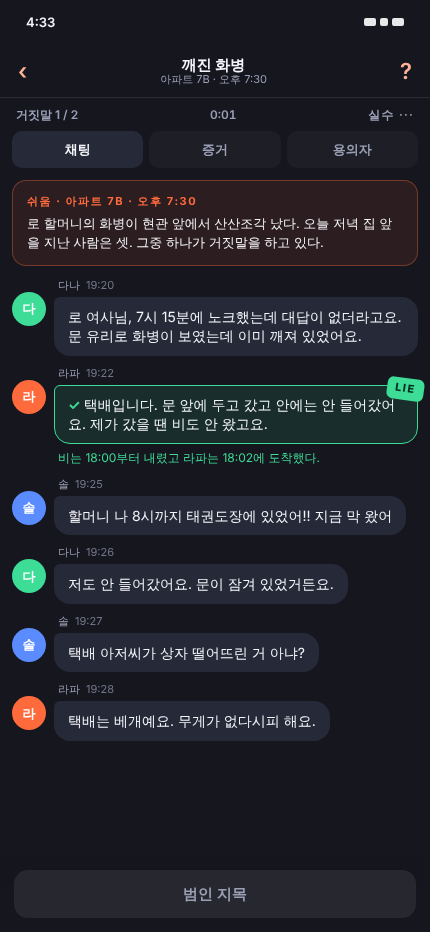
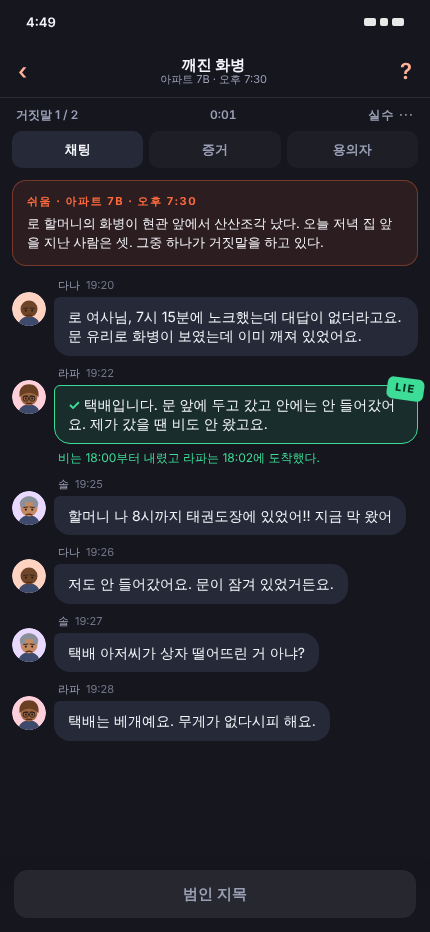
알리바이: 자백 대사 20사건(두 언어), 문서 갱신, 스크린샷 재촬영
Claude-Session: https://claude.ai/code/session_01GtvmLdhHeiEetnrQffLSpt

diff --git a/games/alibi/js/outro-2.js b/games/alibi/js/outro-2.js
@@ -55,7 +55,7 @@ Object.assign(OUTRO.en, {
   drone: [
     { s: 'vera', m: 'A parking receipt. You\'re going to hang this on a parking receipt.' },
     { s: 'gil', m: 'And the loan sheet with your signature, and a takeoff from that exact lot at 22:14 while your car was in it.' },
-    { s: 'vera', m: 'He undercut me on every contract for two years and bragged about it. I wanted one night where his glass came down. I didn\'t think about the plants underneath.' },
+    { s: 'vera', m: 'He undercut me on every contract for two years and bragged about it. I wanted one night where his glass came down. I never thought about the plants.' },
     { s: 'ren', m: 'I said it was windy because I\'d cancelled a shoot and wanted the excuse to sound real. There wasn\'t any wind. Sorry, Gil.' },
     { s: 'gil', m: 'I\'m the registered owner, so the greenhouse bill comes to me first. Vera, it\'s going to you second, with a lawyer attached.' }
   ],

diff --git a/games/alibi/README.md b/games/alibi/README.md
@@ -10,6 +10,9 @@
 - **기록 복사**: 결과 화면에서 공유 문구 복사
 - **바로 플레이**: 처음 접속하면 클릭 없이 1번 사건이 열리고, 다시 오면 사건 목록으로 갑니다. 사건 소개는 채팅 맨 위에 고정
 - **가로 화면**: PC 가로 화면에서는 휴대폰 프레임 대신 채팅(왼쪽)과 증거·용의자(오른쪽)를 나란히 보여 줍니다
+- **용의자 얼굴**: 사건과 사람으로 정해지는 벡터 얼굴(머리 모양·피부·안경·수염 조합). 같은 사람은 같은 얼굴
+- **지목 연출**: 범인을 지목하면 채팅에서 탐정의 한마디 → 범인의 반박 → 결정적 증거 → 자백(동기) → 마무리가 순서대로 이어집니다. 대사는 `js/outro-1.js`, `outro-2.js`
+- **사건 순서**: `js/i18n.js`의 `ORDER`. 튜토리얼 다음에 반전이 큰 사건(길드 금고, 1204호, 유출된 에피소드)을 앞에 둡니다
 - **첫 사건 안내**: 처음 하는 사람에게 증거 탭 → 거짓말 표시 → 범인 지목을 단계별로 가리켜 줍니다
 - **배경 음악**: Web Audio로 합성한 잔잔한 패드와 간헐적 음. 설정에서 끌 수 있음
 
@@ -62,7 +65,7 @@ node games/alibi/build.mjs crazygames # 하나만
 결과물은 `games/alibi/dist/alibi-<대상>.zip`(약 360KB, 폰트 내장). 대상은 `crazygames`, `poki`, `itch`, `web`.
 
 ## 사건 추가하기
-새 파일 `js/cases-h.js`에 `CASES.en.push(...)`, `CASES.ko.push(...)`로 같은 `id`를 추가하고 `index.html`에 스크립트 태그를 넣으면 끝입니다. 추가한 뒤 `node games/alibi/tools/lint-cases.mjs`를 돌리세요. 규칙 두 가지만 지키면 됩니다.
+새 파일 `js/cases-h.js`에 `CASES.en.push(...)`, `CASES.ko.push(...)`로 같은 `id`를 추가하고 `index.html`에 스크립트 태그를 넣으면 끝입니다. 추가한 뒤 `node games/alibi/tools/lint-cases.mjs`를 돌리세요. 자백 대사는 `outro-*.js`에 같은 id로 4~6줄 넣고, `ORDER`에 id를 끼워 넣으면 순서가 정해집니다. 규칙 두 가지만 지키면 됩니다.
 - 모든 `lie`는 `ev`(어긋나는 `facts`의 0부터 세는 번호, 둘 이상이면 배열)를 가져야 하고, 그 사실과 분명히 어긋나야 합니다.
 - `culprit`은 증거만으로 한 명으로 좁혀져야 합니다. 거짓말을 한 사람이 둘 이상이면 좋습니다.
 
@@ -70,6 +73,7 @@ node games/alibi/build.mjs crazygames # 하나만
 | 파일 | 내용 |
 | --- | --- |
 | `js/cases.js`, `cases-a` ~ `cases-g.js` | 사건 20개 (한국어·영어) |
+| `js/outro-1.js`, `outro-2.js` | 지목 뒤 자백 대사 (사건 id별) |
 | `tools/lint-cases.mjs` | 사건 구조·공정성 검사 |
 | `js/i18n.js` | 언어, 인터페이스 문구 |
 | `js/game.js` | 진행, 판정, 별 점수, 힌트, 저장. DOM 없음 |

diff --git a/games/alibi/HANDOFF.md b/games/alibi/HANDOFF.md
@@ -13,6 +13,7 @@
 
 ## 끝난 일
 - 사건 20개(난이도 3단계). 거짓말 표시는 **어긋나는 증거까지 골라야** 인정(찍기 방지). 실수 3회·범인 지목·별 점수·힌트
+- 용의자 벡터 얼굴, 범인 지목 뒤 자백 연출(사건마다 4~6줄, 두 언어), 반전 큰 사건을 앞에 두는 순서
 - 처음 접속하면 클릭 없이 1번 사건, 다시 오면 사건 목록. PC 가로 화면은 채팅·증거 나란히 배치. 일러스트 썸네일
 - 오늘의 사건(연속 일수), 타이머와 최고 기록, 용의자별 주장 보기, 기록 복사
 - 첫 사건 단계별 안내, 배경 음악(합성), 거짓말 발견·별 연출
@@ -22,6 +23,8 @@
 - 포털별 zip(폰트 포함 시 약 360KB; 폰트 다운로드가 막힌 환경에서는 약 50KB로 나오며 구글 폰트 링크를 대신 씀), 커버 6종, 스크린샷 5장
 
 **확인 못 한 것**: 진짜 CrazyGames SDK(이 환경에서 접속 불가), 사람이 직접 한 플레이.
+
+**두 번째 리뷰에서 남은 지적(이 컨셉으로는 못 고치는 것)**: 글을 읽어야 하는 게임이라 10대 중심 포털에서 이탈이 크고 광고 자리가 적어 수익성이 낮음. 앞쪽 쉬운 사건의 거짓말이 증거와 1:1로 바로 맞닿아 추리보다 대조에 가까움(사진 단서, 엇갈리는 증거 같은 변주는 뒤쪽 사건에만 있음).
 
 ## 다음 단계
 1. 사용자님이 직접 사건을 플레이 (20개, 약 90분). 억지스러운 거짓말, 증거만으로 범인이 안 좁혀지는 사건이 있으면 알려 주세요.

diff --git a/games/alibi/store/listing.md b/games/alibi/store/listing.md
@@ -15,6 +15,7 @@ ALIBI is a deduction game played on a detective's phone. Each case gives you a g
 
 **Features**
 - 20 cases with rising difficulty: an office kitchen, an apartment, a startup leak, a school festival, a hotel, a game guild, a library, a wedding, a rooftop garden, a podcast studio, a bakery, a late train, a drained pool, a leaked answer key, an open gate, a gallery blackout, a gym locker, a crashed drone, a karaoke room, a dropped database
+- Every suspect has a face; name the culprit and watch the chat turn: pushback, the decisive fact, a confession
 - Ambient music and a hands-on guide for your first case
 - A daily case with a timer and a streak
 - Every lie is contradicted by something in the case: no guessing, no outside knowledge
@@ -35,6 +36,7 @@ ALIBI is a deduction game played on a detective's phone. Each case gives you a g
 
 **특징**
 - 점점 어려워지는 사건 20개: 사무실, 아파트, 스타트업, 학교 축제, 호텔, 게임 길드, 도서관, 결혼식, 옥상 텃밭, 팟캐스트, 빵집, 막차, 수영장, 정답지, 대문, 갤러리, 헬스장 사물함, 드론 추락, 노래방, 데이터베이스 삭제
+- 용의자마다 얼굴이 있고, 범인을 지목하면 채팅이 뒤집힙니다: 반박, 결정적 증거, 자백
 - 배경 음악과 첫 사건 단계별 안내
 - 타이머와 연속 기록이 있는 오늘의 사건
 - 모든 거짓말은 사건 안의 무언가와 어긋납니다. 찍기도, 바깥 지식도 필요 없어요
